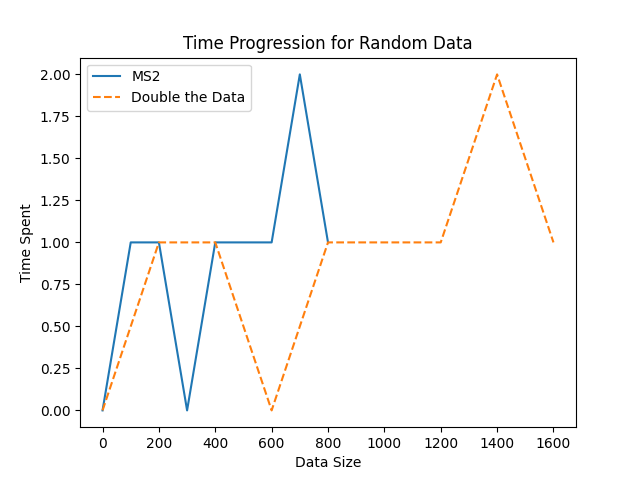
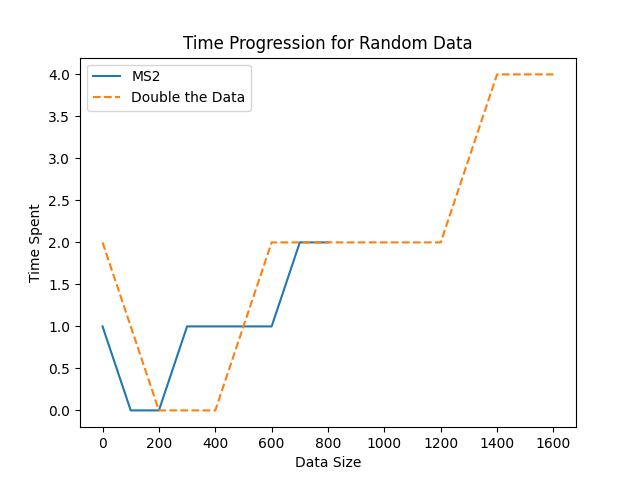
fix: double time

diff --git a/charts.py b/charts.py
@@ -7,9 +7,9 @@ sizes = [i * T for i in range(N)]
 
 def plot_algorithm_progression(results: List[List[float]], title: str, filename: str) -> None:
     for idx, algorithm in enumerate(algorithms):
-        chart = [x[idx] for x in results]
-        plt.plot(sizes, chart, label=algorithm)
-        plt.plot([2 * size for size in sizes], chart, linestyle='--', label='Double the Data')
+        times = [x[idx] for x in results]
+        plt.plot(sizes, times, label=algorithm)
+        plt.plot([2 * size for size in sizes], [2 * time for time in times], linestyle='--', label='Double the Data')
 
         plt.xlabel('Data Size')
         plt.ylabel('Time Spent')
